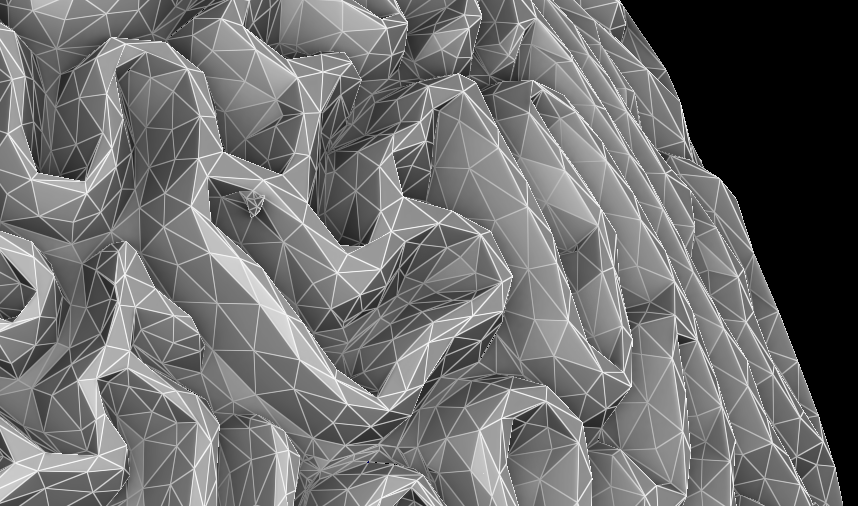
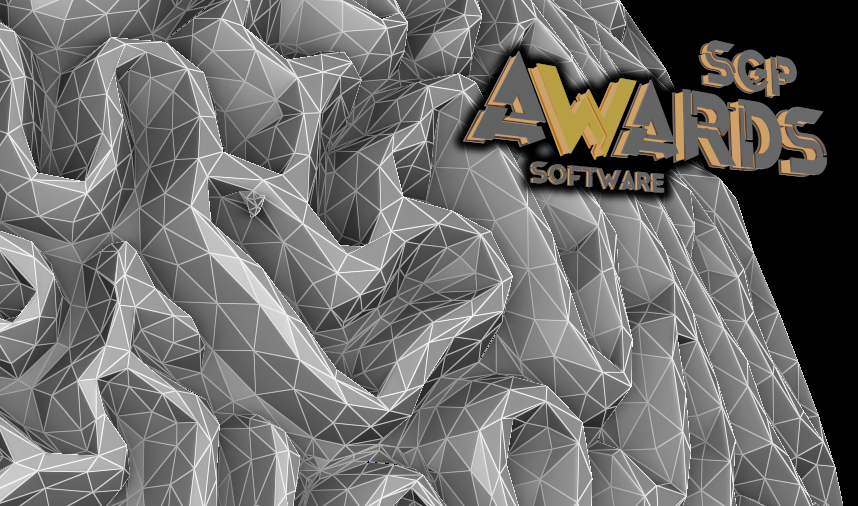
More update related to SGP software award.

Changed region(s): [[0.5152, 0.0593, 0.9697, 0.415]]

diff --git a/index.html b/index.html
@@ -189,7 +189,8 @@ les math&eacute;matiques permettent de remonter aux origines de l'Univers</a>
                </ul>
                <p> </p>
                You will find here the code of more than 30 research articles published over the last 20 years in ACM SIGGRAPH, ACM TOG, SGP, Eurographics...
-               Geogram was supported by two European Research Council grants (ERC): GOODSHAPE and VORPALINE.
+               Geogram was supported by two European Research Council grants (ERC): GOODSHAPE and VORPALINE, and received the <a href="http://awards.geometryprocessing.org/">
+               SGP 2023 software award </a>
             </td>
          </tr>
       </table>
